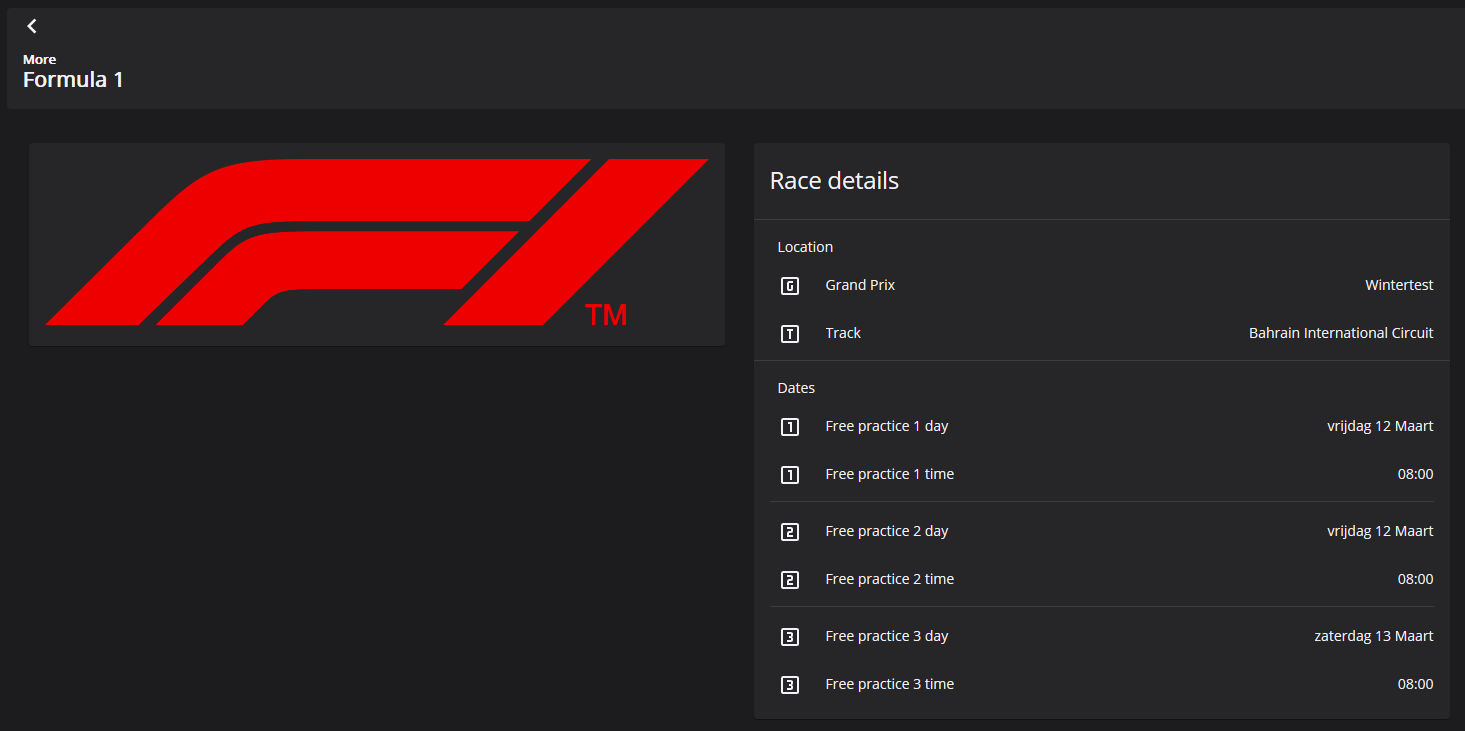
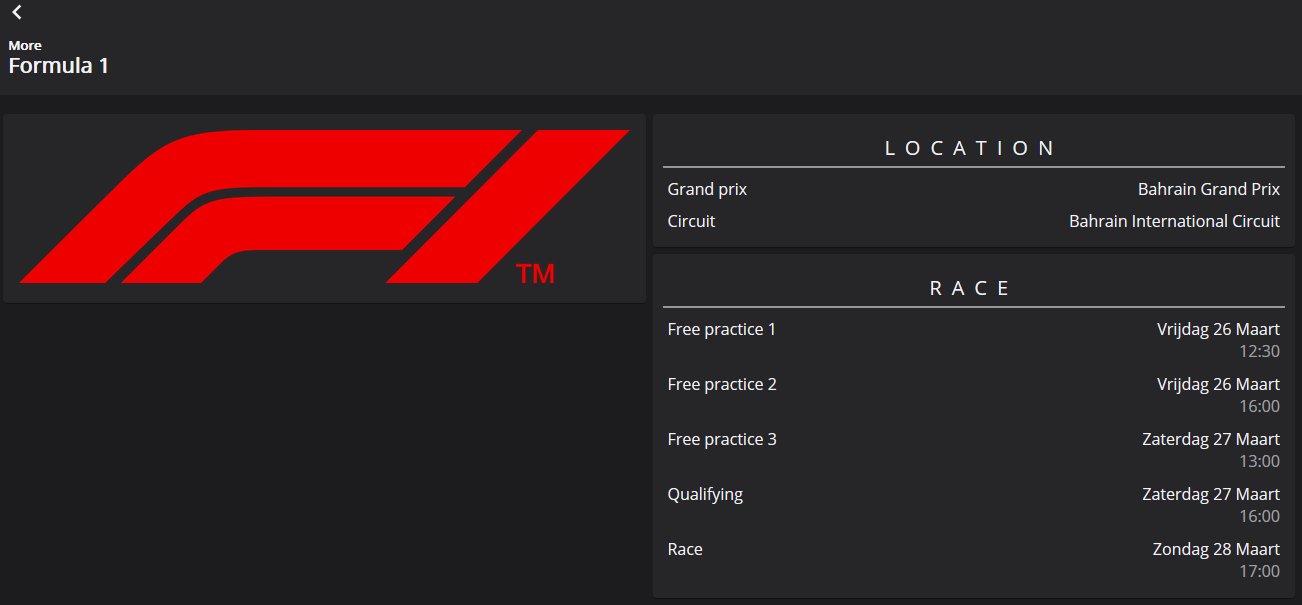
Formula 1 calendar v1.1.0

diff --git a/more_page/f1_calendar/README.md b/more_page/f1_calendar/README.md
@@ -56,3 +56,14 @@ Replace it with the following;
        path: 'dwains-dashboard/addons/more_page/formula1/page.yaml'
 ```
 - Reload the theme configuration via Theme Settings
+
+### Additional options
+You can translate the page by editing the following lines;
+- Line 18
+- Line 57
+- Line 121, 122, 123, 124 and 125
+
+You can translate the dates as well, instead of using the English `formula1.yaml` sensor file, use the Dutch `formula1-translated.yaml` and change the second parameter in the `replace()` filters on lines 17, 21, 25, 29 and 33.
+
+### Result
+![Image](https://raw.githubusercontent.com/dwainscheeren/dwains-dashboard-addons/master/more_page/f1_calendar/Race.png)
